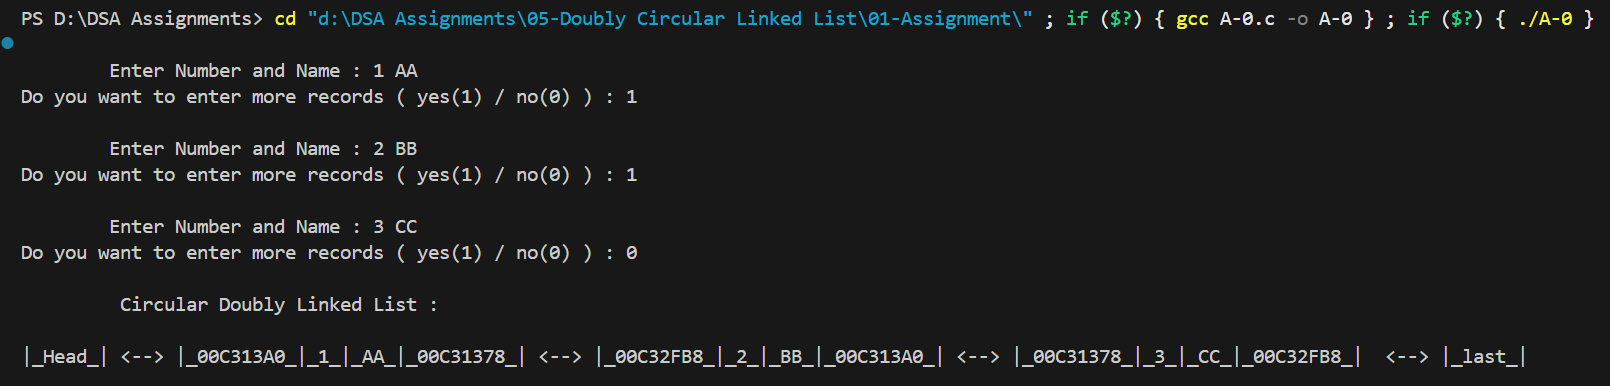
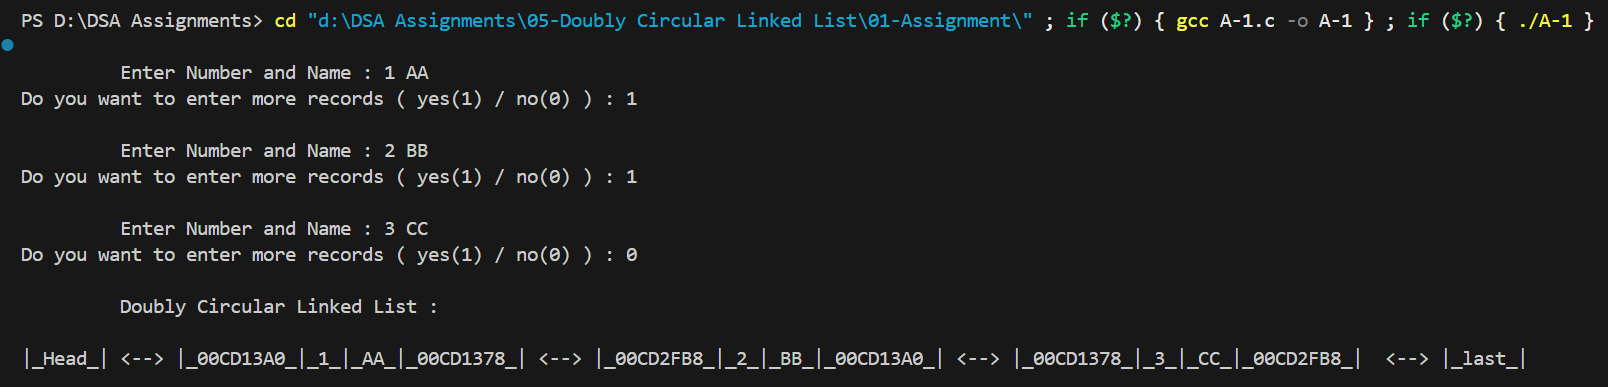
Doubly Circular Linked List Assignment No. 1

diff --git a/05-Doubly Circular Linked List/01-Assignment/A-1.c b/05-Doubly Circular Linked List/01-Assignment/A-1.c
@@ -23,7 +23,7 @@ int main() {
 
     last = createDLL();
 
-    printf("\n\t Circular Doubly Linked List : ");
+    printf("\n\t Doubly Circular Linked List : ");
     displayDLL(last);
     
     freeDLL(last);
@@ -42,7 +42,7 @@ DLLNode* createDLL() {
     {
         nw = malloc(sizeof(DLLNode));
 
-        printf("\n\tEnter Number and Name : ");
+        printf("\n\t Enter Number and Name : ");
         scanf("%d %s", &(nw -> number), nw -> name);
 
         nw -> next = nw;
@@ -115,7 +115,7 @@ void freeDLL(DLLNode *last) {
                     Enter Number and Name : 3 CC
             Do you want to enter more records ( yes(1) / no(0) ) : 0
 
-                    Circular Doubly Linked List : 
+                    Doubly Circular Linked List : 
 
-            |_Head_| <--> |_00C313A0_|_1_|_AA_|_00C31378_| <--> |_00C32FB8_|_2_|_BB_|_00C313A0_| <--> |_00C31378_|_3_|_CC_|_00C32FB8_|  <--> |_last_|
+            |_Head_| <--> |_00CD13A0_|_1_|_AA_|_00CD1378_| <--> |_00CD2FB8_|_2_|_BB_|_00CD13A0_| <--> |_00CD1378_|_3_|_CC_|_00CD2FB8_|  <--> |_last_|                          
 */
